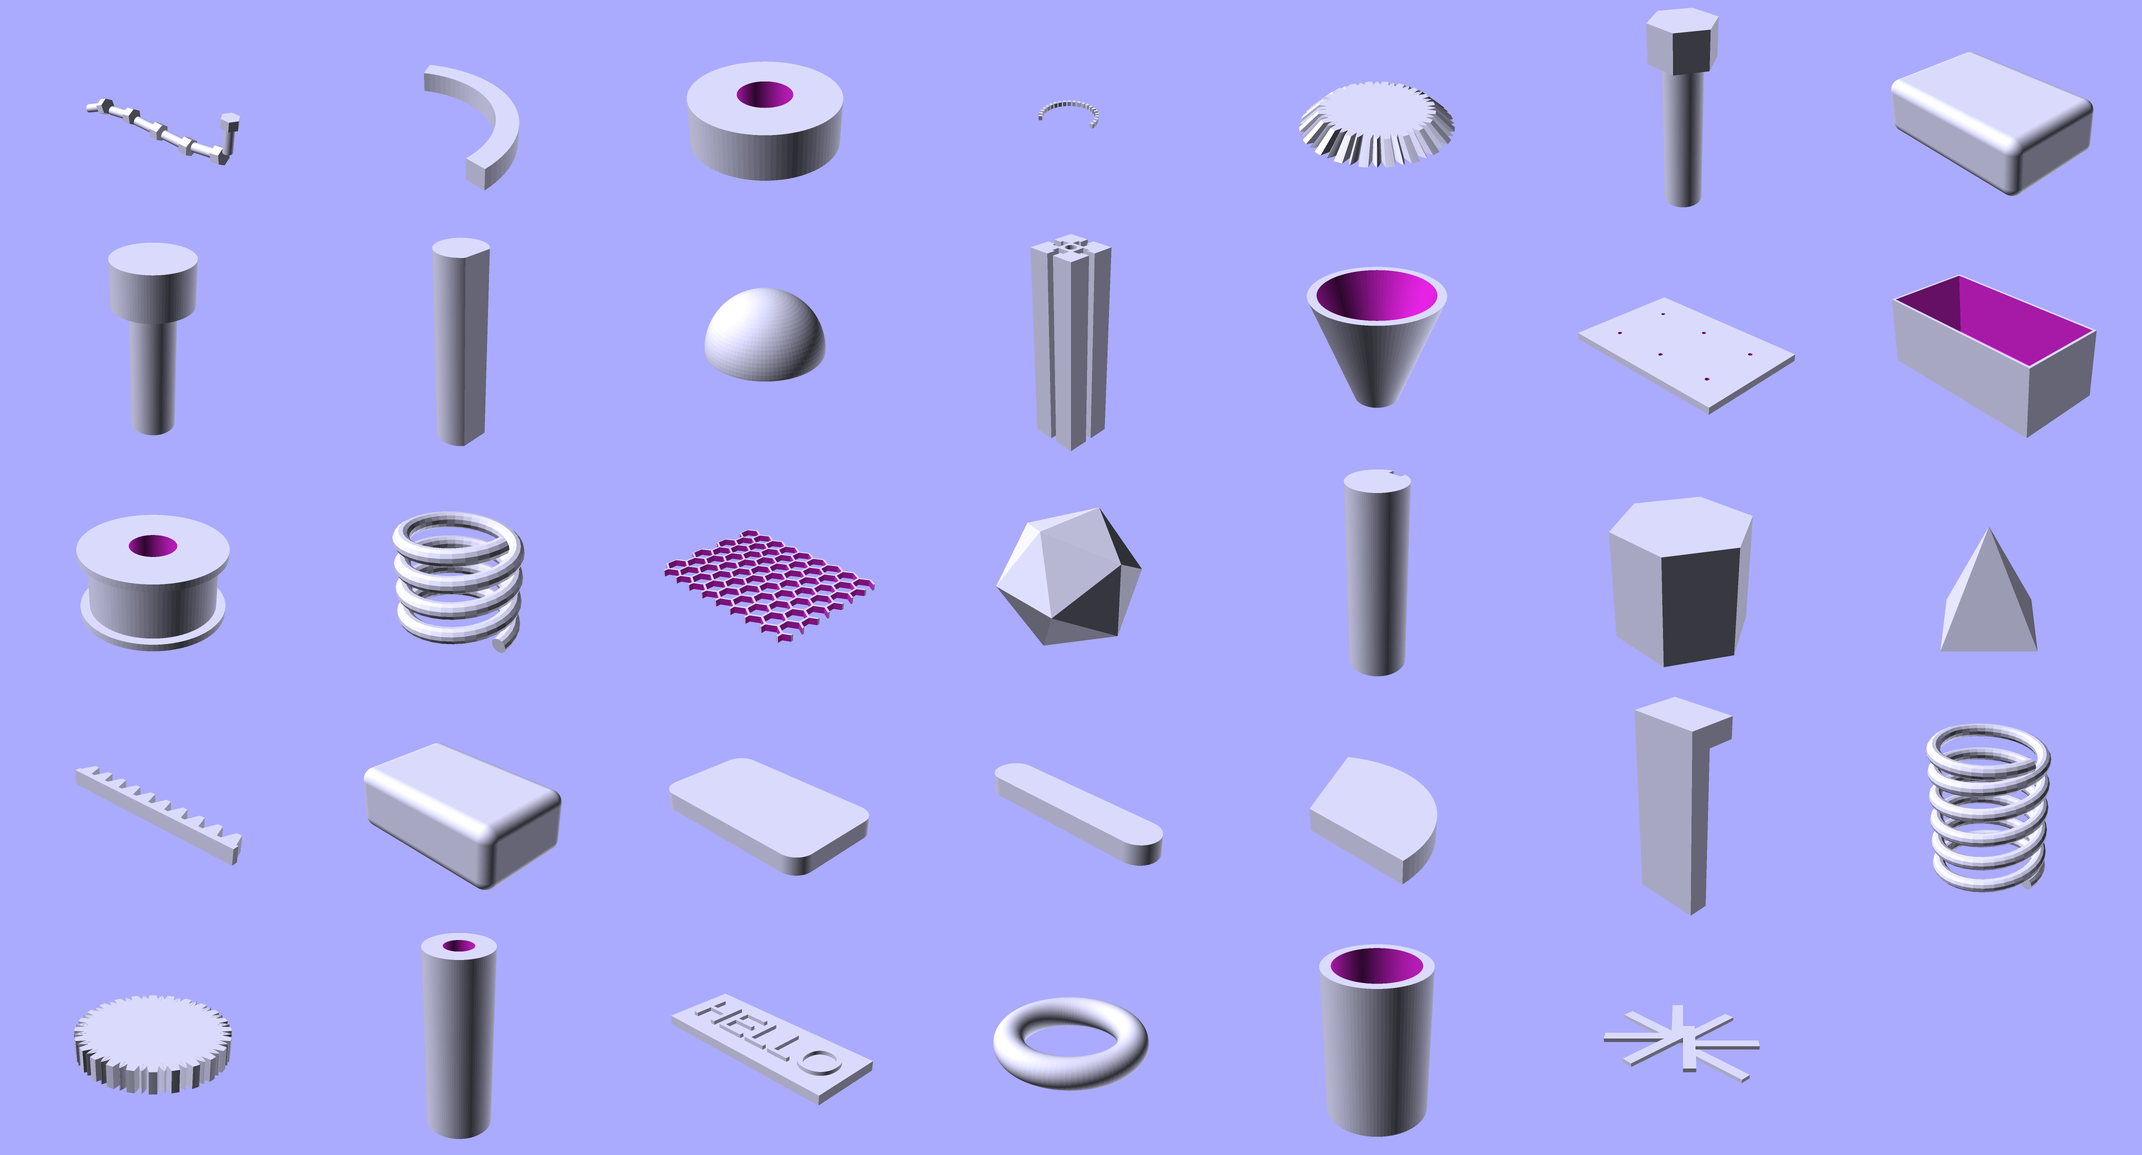
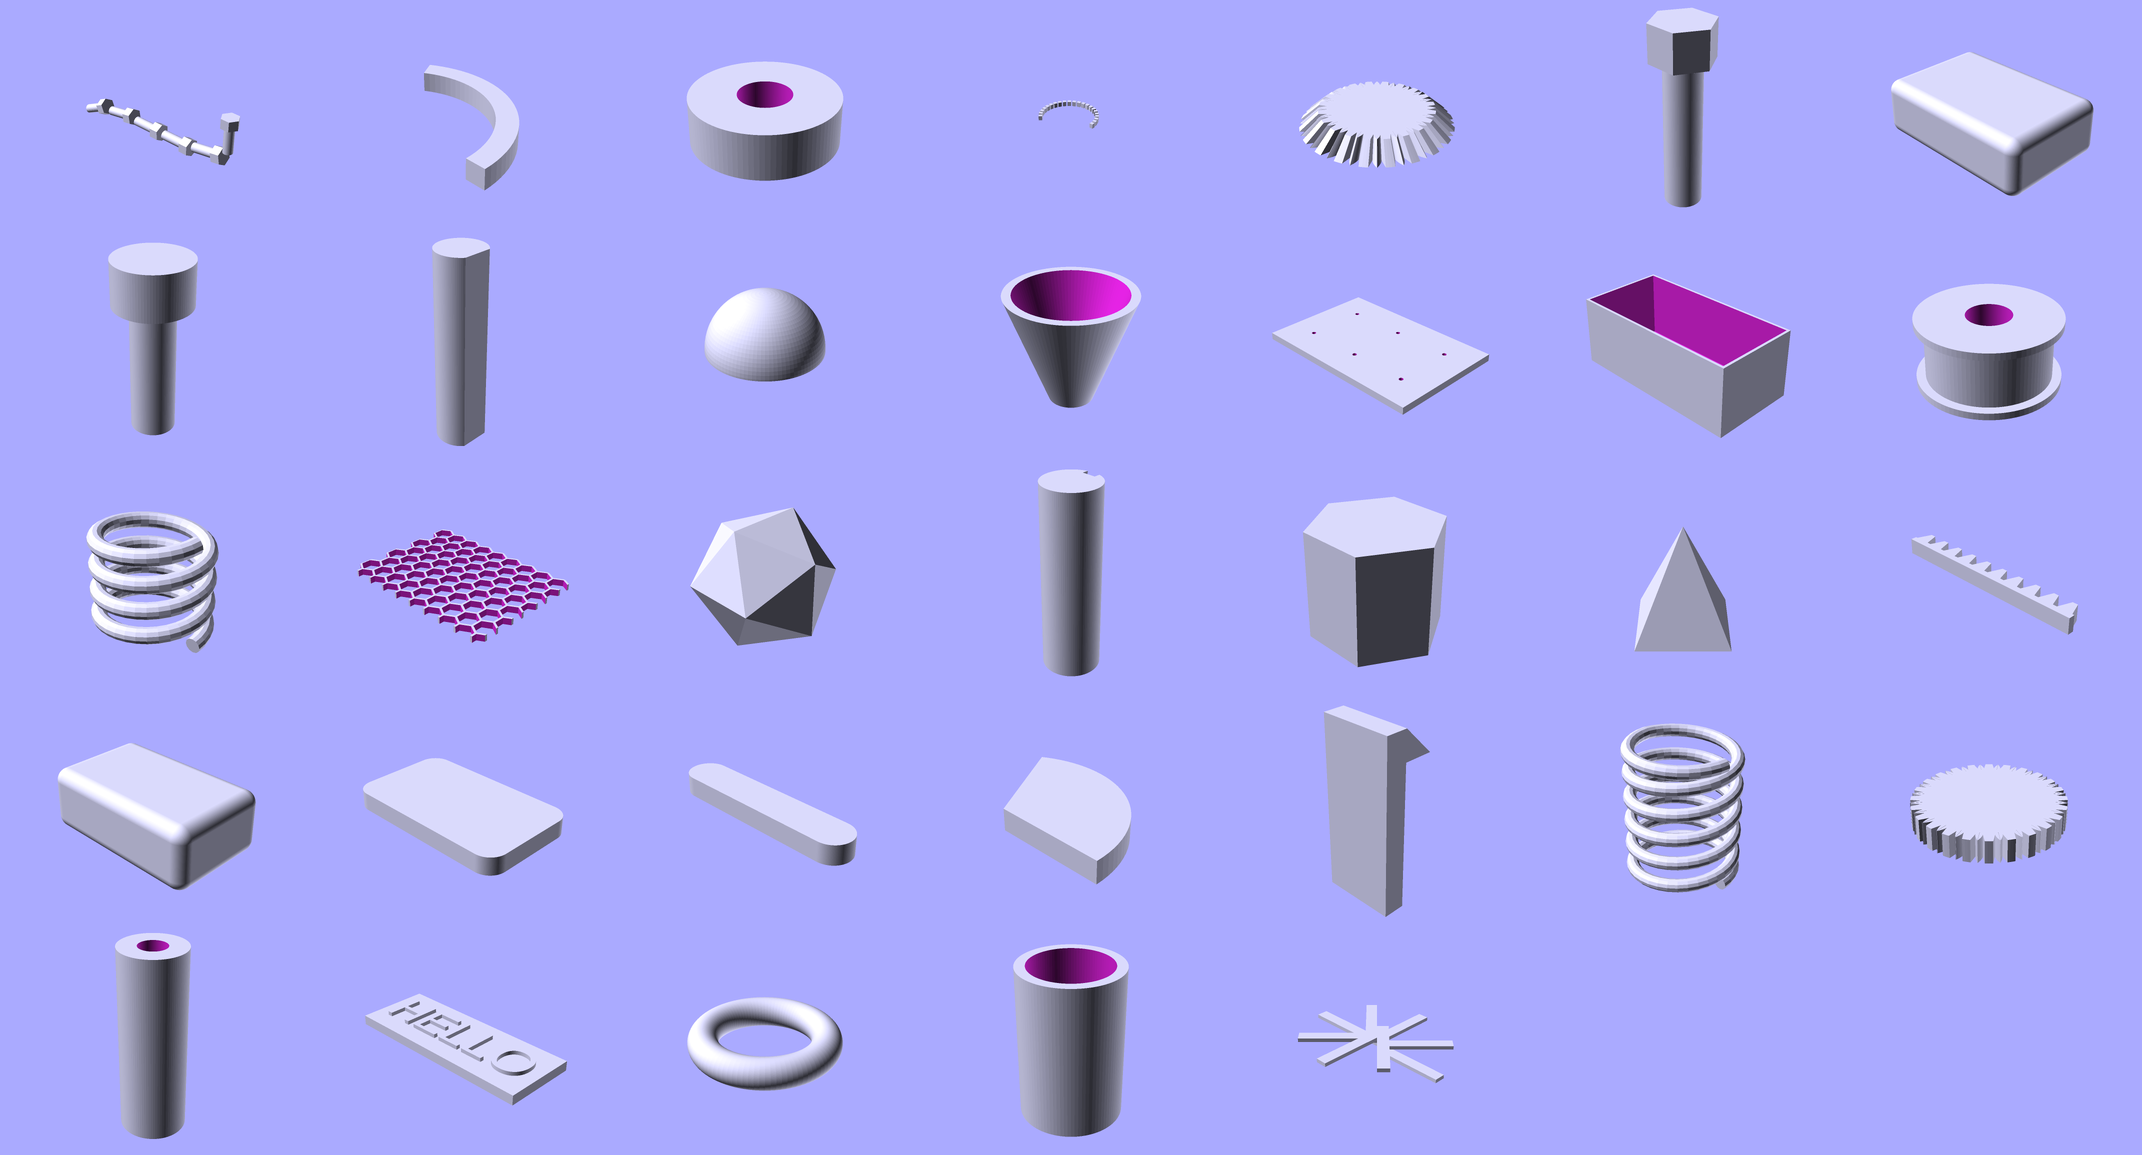
shapes: round-2 items 10, 11 + drop ExtrusionProfile
#10 SnapHook: was a non-functional stub (flat slab unioned at the arm's
top, protruding equally in ±Y from the arm centerline, no barb, no
catch, no ramp — couldn't actually snap over anything). Rebuilt as a
proper cantilever snap-fit: arm + triangular barb polyhedron on the
arm's +Y face near the top. Barb has:
  - a flat catch (bottom face, perpendicular to arm) that grips a ledge
  - a slanted ramp (top face) that deflects the arm during insertion
  - a back face overlapping 0.01 into the arm for clean union

Adds a required `hook_height` Param (barb's vertical extent). Typical
45° ramp is `hook_height == hook_depth`. Cross-constraint
`hook_height <= arm_length`. Three new tests: builds, numeric bbox
checks (barb Y protrusion, arm Z extent), constraint-violation path.

API break: existing `SnapHook(arm_length=..., hook_depth=..., thk=...,
width=...)` callers must add `hook_height=`. Previous geometry wasn't
usable anyway; pre-1.0 break is fine. docs/shapes/print.md and
beauty-shot manifest updated; snap-hook beauty shot re-rendered.

#11 Prism: `top_r >= 0` → `top_r > 0`. `top_r=0` previously produced a
degenerate polyhedron (n coincident apex points). Users wanting a true
apex should use `Pyramid`.

#12 ExtrusionProfile: dropped. The previous implementation's geometry
ratios (bore=size*0.22, slot_opening=size*0.14, etc.) were fabricated
and don't match any real T-slot extrusion family — real profiles have
[…]

diff --git a/src/scadwright/shapes/print_shapes/joints.py b/src/scadwright/shapes/print_shapes/joints.py
@@ -5,7 +5,7 @@ from __future__ import annotations
 from scadwright.boolops import union
 from scadwright.component.base import Component
 from scadwright.extrusions import linear_extrude
-from scadwright.primitives import cube, square
+from scadwright.primitives import cube, polyhedron, square
 
 
 class TabSlot(Component):
@@ -40,25 +40,53 @@ class TabSlot(Component):
 
 
 class SnapHook(Component):
-    """Cantilever snap-fit hook.
+    """Cantilever snap-fit hook with a ramped barb.
 
-    A vertical arm with a hook at the top. The arm flexes to allow
-    the hook to snap over a ledge. ``arm_length`` is the arm height,
-    ``hook_depth`` is how far the hook protrudes, ``thk`` is the arm
-    thickness, ``width`` is the arm width.
+    A vertical arm with a triangular barb on its +Y face near the top.
+    The barb has a flat catch (bottom face, perpendicular to the arm)
+    that grips a ledge, and a slanted ramp (top face) that deflects the
+    arm during insertion.
 
-    The hook base sits at z=0, hook at z=arm_length.
+    Arm: z=[0, arm_length], x=[-width/2, +width/2], y=[0, thk].
+    Barb: on the +Y face at the top; catch at z=arm_length-hook_height,
+    ramp terminating at z=arm_length, tip protruding to y=thk+hook_depth.
+
+    A 45° ramp (typical) is ``hook_height == hook_depth``.
     """
 
     equations = [
-        "arm_length, hook_depth, thk, width > 0",
+        "arm_length, hook_depth, hook_height, thk, width > 0",
+        "hook_height <= arm_length",
     ]
 
     def build(self):
         arm = cube([self.width, self.thk, self.arm_length], center="x")
-        hook = cube([self.width, self.hook_depth + self.thk, self.thk], center="x")
-        hook = hook.up(self.arm_length)
-        return union(arm, hook)
+
+        # Triangular barb: prism with catch (bottom), ramp (slanted),
+        # and back face coincident with the arm's front. Small overlap
+        # into the arm (0.01) keeps the union manifold-clean.
+        y_back = self.thk - 0.01
+        y_tip = self.thk + self.hook_depth
+        z_bot = self.arm_length - self.hook_height
+        z_top = self.arm_length
+        x = self.width / 2
+        vertices = [
+            (-x, y_back, z_bot),   # 0 L back-bottom (catch level, at arm front)
+            (-x, y_tip, z_bot),    # 1 L tip (catch edge)
+            (-x, y_back, z_top),   # 2 L back-top (ramp terminus)
+            (+x, y_back, z_bot),   # 3 R back-bottom
+            (+x, y_tip, z_bot),    # 4 R tip
+            (+x, y_back, z_top),   # 5 R back-top
+        ]
+        faces = [
+            [0, 2, 1],        # left triangle (normal -x)
+            [3, 4, 5],        # right triangle (normal +x)
+            [0, 1, 4, 3],     # catch (bottom, normal -z)
+            [1, 2, 5, 4],     # ramp (slanted, normal toward +y+z)
+            [0, 3, 5, 2],     # back (overlaps into arm, normal -y)
+        ]
+        barb = polyhedron(points=vertices, faces=faces)
+        return union(arm, barb)
 
 
 class GripTab(Component):

diff --git a/tools/beauty_shots.py b/tools/beauty_shots.py
@@ -29,7 +29,6 @@ from scadwright.shapes import (
     Counterbore,
     DShaft,
     Dome,
-    ExtrusionProfile,
     Funnel,
     GT2Pulley,
     GridfinityBase,
@@ -72,10 +71,6 @@ def _2d_rounded_slot():
 
 def _2d_arc():
     return Arc(r=15, angles=(0, 120), width=3).linear_extrude(height=3)
-
-
-def _extrusion_profile():
-    return ExtrusionProfile(size=20).linear_extrude(height=80)
 
 
 def _d_shaft():
@@ -121,7 +116,7 @@ COMPONENTS = [
     # print.md
     {"out": "docs/shapes/images/honeycomb-panel.png", "component": HoneycombPanel, "kwargs": {"size": (80, 60, 3), "cell_size": 8, "wall_thk": 1}},
     {"out": "docs/shapes/images/text-plate.png",      "component": TextPlate,      "kwargs": {"label": "HELLO", "plate_w": 40, "plate_h": 15, "plate_thk": 2, "depth": 0.8, "font_size": 8}},
-    {"out": "docs/shapes/images/snap-hook.png",       "component": SnapHook,       "kwargs": {"arm_length": 12, "hook_depth": 2, "thk": 1.5, "width": 5}},
+    {"out": "docs/shapes/images/snap-hook.png",       "component": SnapHook,       "kwargs": {"arm_length": 12, "hook_depth": 2, "hook_height": 2, "thk": 1.5, "width": 5}},
 
     # transforms.md
     {"out": "docs/shapes/images/bend.png",        "build": _transform_bend,        "name": "bend"},
@@ -131,8 +126,6 @@ COMPONENTS = [
     # ecosystem.md
     {"out": "docs/shapes/images/gridfinity-base.png",   "component": GridfinityBase, "kwargs": {"grid_x": 3, "grid_y": 2}},
     {"out": "docs/shapes/images/gridfinity-bin.png",    "component": GridfinityBin,  "kwargs": {"grid_x": 2, "grid_y": 1, "height_units": 4}},
-    {"out": "docs/shapes/images/extrusion-profile.png", "build": _extrusion_profile, "name": "extrusion-profile"},
-
     # mechanical.md
     {"out": "docs/shapes/images/bearing.png",      "component": Bearing,    "kwargs": {"series": "608"}},
     {"out": "docs/shapes/images/gt2-pulley.png",   "component": GT2Pulley,  "kwargs": {"teeth": 20, "bore_d": 5, "belt_width": 6}},

diff --git a/tests/test_shapes_print.py b/tests/test_shapes_print.py
@@ -129,9 +129,25 @@ def test_tab_slot_slot_property_returns_cutter_with_correct_size():
 
 
 def test_snap_hook_builds():
-    h = SnapHook(arm_length=10, hook_depth=2, thk=1.5, width=5)
+    h = SnapHook(arm_length=10, hook_depth=2, hook_height=2, thk=1.5, width=5)
     scad = emit_str(h)
     assert "union" in scad
+    assert "polyhedron" in scad  # barb is a polyhedron
+
+
+def test_snap_hook_geometry():
+    """Barb protrudes in +Y beyond the arm's thk; Z extent is arm_length."""
+    s = SnapHook(arm_length=10, hook_depth=2, hook_height=2, thk=1.5, width=5)
+    bb = bbox(s)
+    assert bb.size[0] == pytest.approx(5.0, abs=0.01)    # width
+    assert bb.max[1] == pytest.approx(3.5, abs=0.02)     # thk + hook_depth
+    assert bb.min[1] == pytest.approx(0.0, abs=0.01)     # arm back face
+    assert bb.size[2] == pytest.approx(10.0, abs=0.01)   # arm_length
+
+
+def test_snap_hook_hook_height_cannot_exceed_arm_length():
+    with pytest.raises(ValidationError, match="hook_height"):
+        SnapHook(arm_length=5, hook_depth=2, hook_height=10, thk=1.5, width=5)
 
 
 # --- GripTab ---

diff --git a/tests/test_shapes_ecosystem.py b/tests/test_shapes_ecosystem.py
@@ -4,7 +4,7 @@ import pytest
 
 from scadwright import bbox, emit_str
 from scadwright.errors import ValidationError
-from scadwright.shapes import ExtrusionProfile, GridfinityBase, GridfinityBin
+from scadwright.shapes import GridfinityBase, GridfinityBin
 
 
 # --- GridfinityBase ---
@@ -53,25 +53,3 @@ def test_gridfinity_bin_publishes_dims():
     b = GridfinityBin(grid_x=2, grid_y=1, height_units=3)
     assert b.outer_w == pytest.approx(83.5, abs=0.5)
     assert b.total_h == pytest.approx(25.4, abs=0.5)
-
-
-# --- ExtrusionProfile ---
-
-
-def test_extrusion_profile_2020():
-    p = ExtrusionProfile(size=20)
-    scad = emit_str(p)
-    assert "difference" in scad
-
-
-def test_extrusion_profile_bbox():
-    p = ExtrusionProfile(size=20)
-    bb = bbox(p)
-    assert bb.size[0] == pytest.approx(20.0, abs=0.1)
-    assert bb.size[1] == pytest.approx(20.0, abs=0.1)
-
-
-def test_extrusion_profile_multi_slot():
-    p = ExtrusionProfile(size=40, slots=2)
-    scad = emit_str(p)
-    assert "difference" in scad

diff --git a/src/scadwright/shapes/ecosystem/__init__.py b/src/scadwright/shapes/ecosystem/__init__.py
@@ -1,6 +1,5 @@
-"""Ecosystem components: Gridfinity, aluminum extrusion profiles."""
+"""Ecosystem components: Gridfinity storage system."""
 
-from scadwright.shapes.ecosystem.extrusion import ExtrusionProfile
 from scadwright.shapes.ecosystem.gridfinity import (
     STANDARD_GRIDFINITY,
     GridfinityBase,
@@ -9,7 +8,6 @@ from scadwright.shapes.ecosystem.gridfinity import (
 )
 
 __all__ = [
-    "ExtrusionProfile",
     "GridfinityBase",
     "GridfinityBin",
     "GridfinitySpec",

diff --git a/src/scadwright/shapes/__init__.py b/src/scadwright/shapes/__init__.py
@@ -11,7 +11,6 @@ from scadwright.shapes.curves import (
 )
 from scadwright.shapes.ecosystem import (
     STANDARD_GRIDFINITY,
-    ExtrusionProfile,
     GridfinityBase,
     GridfinityBin,
     GridfinitySpec,
@@ -104,7 +103,6 @@ __all__ = [
     "Dodecahedron",
     "Dome",
     "EmbossedLabel",
-    "ExtrusionProfile",
     "FilletMask",
     "FilletRing",
     "Funnel",

diff --git a/src/scadwright/shapes/polyhedra/prism.py b/src/scadwright/shapes/polyhedra/prism.py
@@ -16,7 +16,7 @@ class Prism(Component):
     from ``r``, the result is a frustum (tapered prism).
     """
 
-    equations = ["r, h > 0", "top_r >= 0"]
+    equations = ["r, h > 0", "top_r > 0"]
     sides = Param(int, min=3)
     top_r = Param(float, default=None)
 

diff --git a/docs/shapes/ecosystem.md b/docs/shapes/ecosystem.md
@@ -1,9 +1,9 @@
 # Ecosystem components
 
-Gridfinity storage system and aluminum extrusion profiles.
+Gridfinity storage system.
 
 ```python
-from scadwright.shapes import GridfinityBase, GridfinityBin, ExtrusionProfile
+from scadwright.shapes import GridfinityBase, GridfinityBin
 ```
 
 ## Gridfinity
@@ -47,18 +47,3 @@ from scadwright.shapes import GridfinitySpec, STANDARD_GRIDFINITY, GridfinityBas
 HALF_SCALE = STANDARD_GRIDFINITY._replace(grid_unit=21.0, magnet_d=3.0, magnet_h=1.2)
 base = GridfinityBase(grid_x=4, grid_y=3, spec=HALF_SCALE)
 ```
-
-## `ExtrusionProfile(size)` (2D)
-
-T-slot aluminum extrusion cross-section (2020/2040 style). Extrude for a 3D rail.
-
-```python
-ExtrusionProfile(size=20).linear_extrude(height=200)    # 2020 rail
-ExtrusionProfile(size=40, slots=2).linear_extrude(height=300)  # 2040 rail
-```
-
-`slots` controls T-slot channels per face (default 1).
-
-![Extrusion profile](images/extrusion-profile.png)
-
-*`ExtrusionProfile(size=20).linear_extrude(height=80)` — 2020-style aluminum rail cross-section.*

diff --git a/docs/shapes/print.md b/docs/shapes/print.md
@@ -84,17 +84,17 @@ tab = TabSlot(tab_w=5, tab_h=3, tab_d=10, clearance=0.2)
 pocket = cube([tab.slot_w, tab.slot_d, tab.slot_h])  # matching cutter
 ```
 
-### `SnapHook(arm_length, hook_depth, thk, width)`
+### `SnapHook(arm_length, hook_depth, hook_height, thk, width)`
 
-Cantilever snap-fit hook. Arm flexes to snap over a ledge.
+Cantilever snap-fit hook. Triangular barb at the top of the arm has a flat catch (bottom) and a slanted ramp (top). Typical ramp is 45° (`hook_height == hook_depth`).
 
 ```python
-SnapHook(arm_length=10, hook_depth=2, thk=1.5, width=5)
+SnapHook(arm_length=10, hook_depth=2, hook_height=2, thk=1.5, width=5)
 ```
 
 ![Snap hook](images/snap-hook.png)
 
-*`SnapHook(arm_length=12, hook_depth=2, thk=1.5, width=5)` — cantilever snap-fit that flexes to clip over a ledge.*
+*`SnapHook(arm_length=12, hook_depth=2, hook_height=2, thk=1.5, width=5)` — cantilever with a ramped barb; the arm flexes on insertion, the catch grips a ledge.*
 
 ### `GripTab(tab_w, tab_h, tab_d, taper)`
 

diff --git a/docs/shapes/README.md b/docs/shapes/README.md
@@ -74,4 +74,4 @@ Both styles work -- the top-level `scadwright.shapes` re-exports everything.
 
 ### [Ecosystem](ecosystem.md)
 
-[`GridfinityBase`](ecosystem.md#gridfinitybasegrid_x-grid_y), [`GridfinityBin`](ecosystem.md#gridfinitybingrid_x-grid_y-height_units), [`ExtrusionProfile`](ecosystem.md#extrusionprofilesize-2d)
+[`GridfinityBase`](ecosystem.md#gridfinitybasegrid_x-grid_y), [`GridfinityBin`](ecosystem.md#gridfinitybingrid_x-grid_y-height_units)
